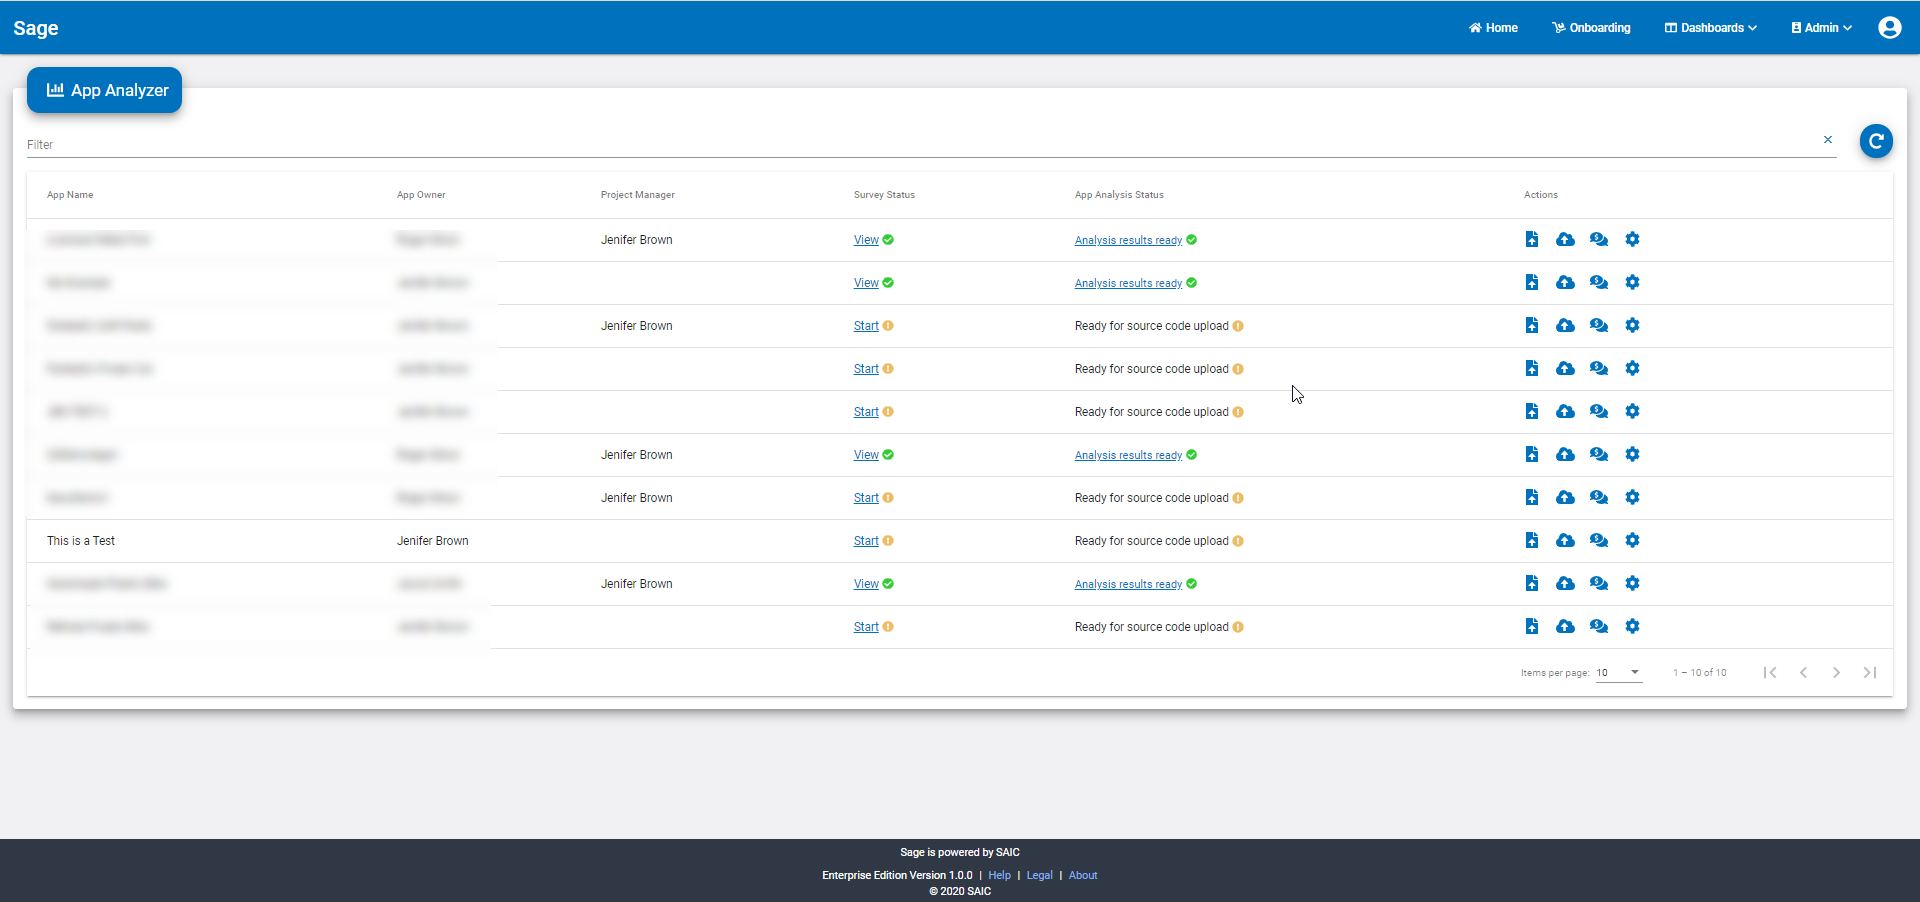
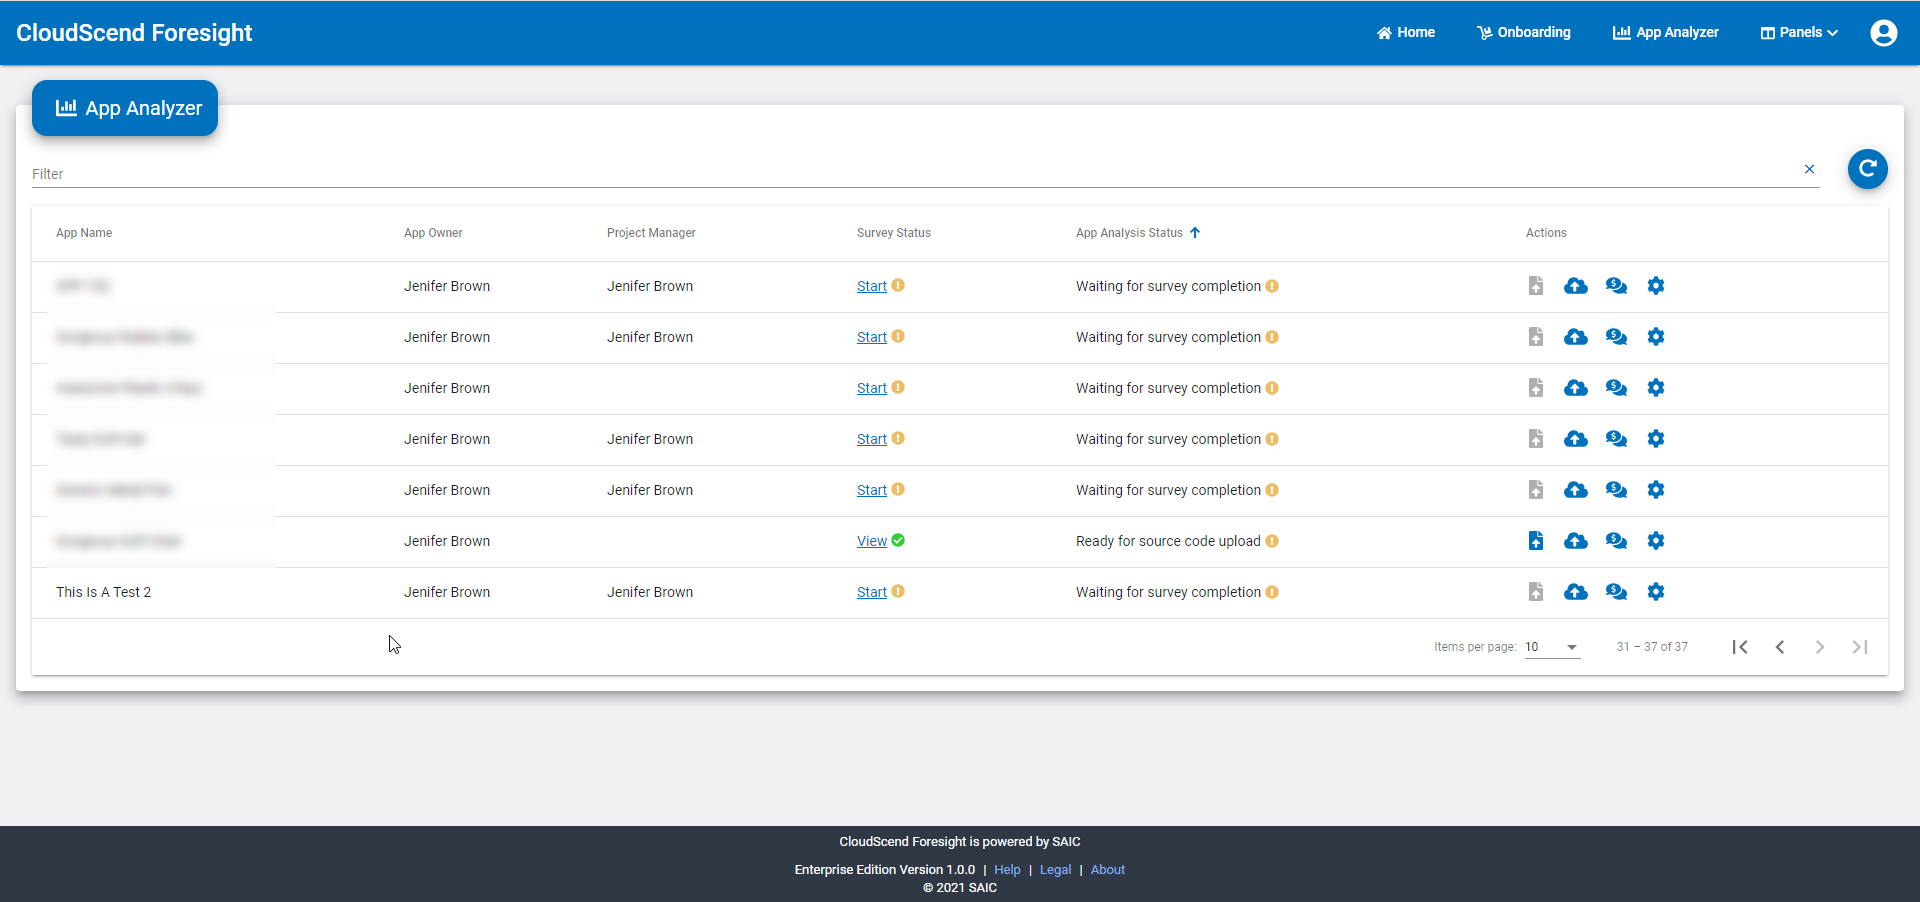
new screenshots for Foresight and general updates

diff --git a/webapp/sidebars.js b/webapp/sidebars.js
@@ -1,6 +1,6 @@
 module.exports = {
   someSidebar: {
-    CloudScendForesight: [
+    "CloudScend Foresight": [
       {
         type: "category",
         label: "CloudScend Foresight Users Guide",
